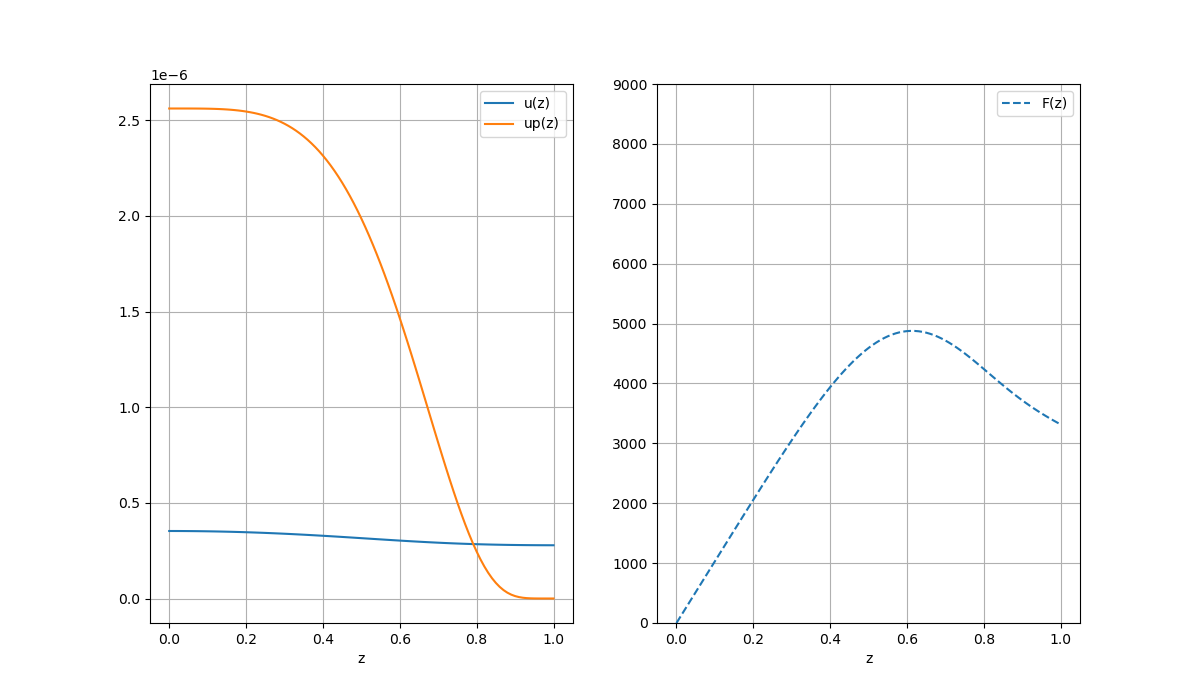
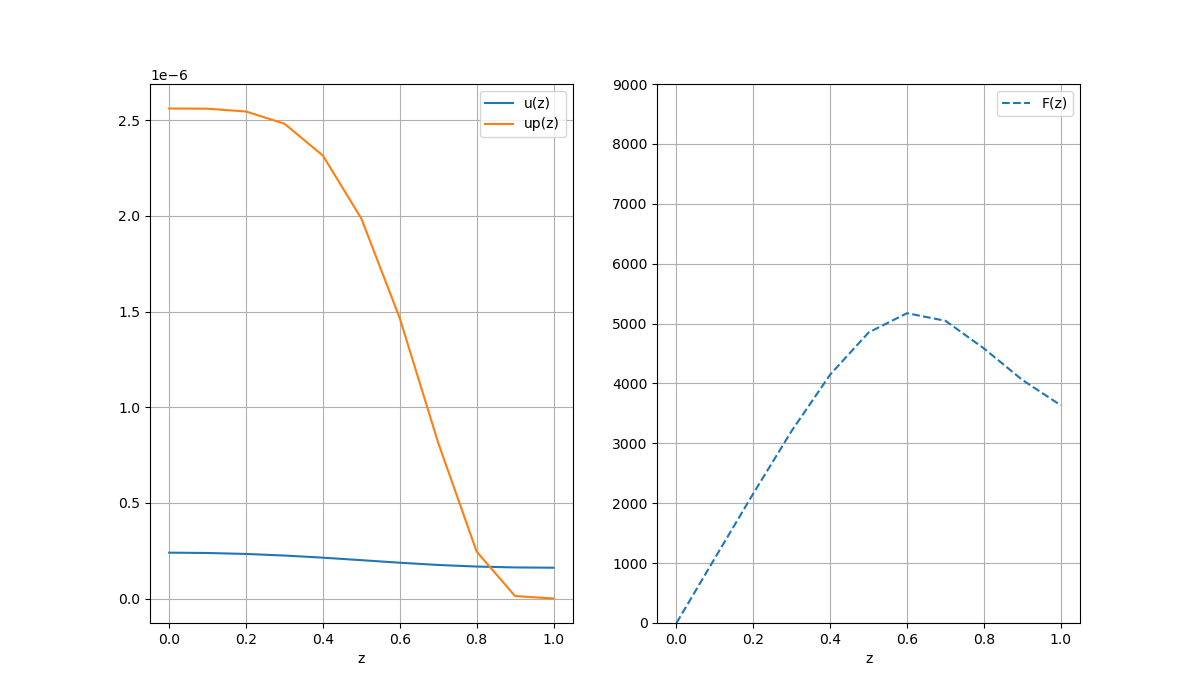
иуащку -1

diff --git a/lab_03/main.py b/lab_03/main.py
@@ -7,7 +7,7 @@ import numpy as np
 
 EPS = 1e-4
 c = 3e10
-k0 = 8e-4  # k0 = 0.01 # k0 = 0.008
+k0 = 8e-3  # k0 = 0.01 # k0 = 0.008
 m = 0.786
 R = 0.35
 Tw = 2000
@@ -21,6 +21,8 @@ def T(z):
 
 
 def up(z):
+    if z > 1:
+        print(z, 3.084e-4 / (exp(4.799e4 / T(z)) - 1))
     return 3.084e-4 / (exp(4.799e4 / T(z)) - 1)
 
 
@@ -38,7 +40,7 @@ class Solver:
     def solve(self, z_min, z_max, h, F0=0, alpha=(m * c / 2), beta=0):
         self.h = h
         self.z_array = list(np.arange(z_min, z_max + EPS, h))
-        self.N = len(self.z_array) - 1
+        self.N = len(self.z_array) - 1# -1
         self.F0 = F0
         self.alpha = alpha
         self.beta = beta
@@ -53,51 +55,59 @@ class Solver:
         self.ksi_array = []
         self.eta_array = []
 
-        self.ksi_array.append(-self.M0 / self.K0)
+        #self.ksi_array.append(-self.M0 / self.K0) - my
+        ## !!!!!!!
+        self.ksi_array.append(self.M0 / self.K0)
         self.eta_array.append(self.P0 / self.K0)
 
-        for i in range(1, self.N):
+        for i in range(1, self.N + 1):
             self.ksi_array.append(self.ksi_n_plus_1(i - 1))
             self.eta_array.append(self.eta_n_plus_1(i - 1))
 
+        print(f'ksi {len(self.ksi_array)}: {self.ksi_array}')
+        print(f'eta {len(self.eta_array)}: {self.eta_array}')
+        print(self.N)
+
 
     def bacward(self):
-        self.y_array = [0] * self.N
+        self.y_array = [0] * (self.N + 1)
         self.y_array[-1] = (self.PN - self.KN * self.eta_array[-1]) / (self.KN * self.ksi_array[-1] + self.MN)
-        for i in range(self.N - 1, 0):
+        for i in range(self.N - 1, 0, -1):
             self.y_array[i] = self.ksi_array[i + 1] * self.y_array[i + 1] + self.eta_array[i + 1]
 
     def count_coeffs(self):
         def count_M0():
             sum1 = self.z_n_plus_half(0) * self.kappa_n_plus_half(0) / (R * R * self.h)
-            sum2 = self.h * self.p_n_plus_half(0) * self.V_n_plus_half(0) / 8
-            sum3 = self.h * self.p_func(self.z_array[0]) / 4
+            sum2 = self.h * self.p_n_plus_half(0) * self.V_n_one_halph() / 8
+            sum3 = self.h * self.p_func(self.z_array[0]) * self.V_n_one_halph() / 4
             return -(sum1 + sum2 + sum3)
 
         def count_K0():
             sum1 = self.z_n_plus_half(0) * self.kappa_n_plus_half(0) / (R * R * self.h)
-            sum2 = self.h * self.p_n_plus_half(0) * self.V_n_plus_half(0) / 8
+            sum2 = self.h * self.p_n_plus_half(0) * self.V_n_one_halph() / 8
             return sum1 - sum2
 
         def count_P0():
             sum1 = self.z_array[0] * self.F0 / R
-            sum2 = self.h * self.V_n_plus_half(0) * (self.f_func(self.z_array[0]) + self.f_n_plus_half(0)) / 4
+            sum2 = self.h * self.V_n_one_halph() * (self.f_func(self.z_array[0]) + self.f_n_plus_half(0)) / 4
             return -(sum1 + sum2)
 
         def count_KN():
             sum1 = self.z_n_minus_half(self.N) * self.kappa_n_minus_half(self.N) / (R * R * self.h)
-            sum2 = self.h * self.p_n_minus_half(self.N) * self.V_n_minus_half(self.N) / 8
+            sum2 = self.h * self.p_n_minus_half(self.N) * self.V_N_minus_half() / 8
             return sum1 - sum2
 
         def count_MN():
             sum1 = self.z_n_minus_half(self.N) * self.kappa_n_minus_half(self.N) / (R * R * self.h)
             sum2 = self.z_array[self.N] * self.alpha / R
-            sum3 = 3 * self.h * self.p_n_minus_half(self.N) * self.V_n_minus_half(self.N) / 8
-            return - (sum1 + sum2 + sum3)
+            sum3 = self.h * self.p_n_minus_half(self.N) * self.V_N_minus_half() / 8
+            sum4 = self.h * self.p_func(self.z_array[self.N]) * self.V_N_minus_half() / 4
+            return -(sum1 + sum2 + sum3 + sum4)
 
         def count_PN():
-            sum1 = 0  # betta = 0
-            sum2 = (self.h * self.V_n_minus_half(self.N) *
+            sum1 = self.z_array[self.N] * self.alpha * self.beta / R
+            # sum1 = 0  # betta = 0
+            sum2 = (self.h * self.V_N_minus_half() *
                     (self.f_func(self.z_array[self.N]) + self.f_n_minus_half(self.N)) / 4)
             return -(sum1 + sum2)
 
@@ -107,11 +117,14 @@ class Solver:
 
         self.MN = count_MN()
         self.KN = count_KN()
+
+        # !self.MN, self.KN = self.KN, self.MN
+
         self.PN = count_PN()
 
     def count_F_array(self):
         self.F_array = []
-        for n in range(self.N - 1):
+        for n in range(self.N):
             F_plus_half = self.kappa_n_plus_half(n) * (self.y_array[n] - self.y_array[n + 1]) / (R * self.h)
             self.F_array.append(F_plus_half)
 
@@ -139,12 +152,6 @@ class Solver:
     def p_n_plus_half(self, n):
         return self.func_n_plus_half(self.p_func, n)
 
-    def V_n_minus_half(self, n):
-        return self.func_n_minus_half(self.Vn, n)
-
-    def V_n_plus_half(self, n):
-        return self.func_n_plus_half(self.Vn, n)
-
     def f_n_minus_half(self, n):
         return self.func_n_minus_half(self.f_func, n)
 
@@ -153,8 +160,11 @@ class Solver:
 
 
 
+    def V_n_one_halph(self):
+        return (self.z_n_plus_half(0) ** 2 - self.z_array[0] ** 2) / 2
 
-
+    def V_N_minus_half(self):
+        return (self.z_array[self.N] ** 2 - self.z_n_minus_half(self.N) ** 2) / 2
 
 
     def Vn(self, n):
@@ -167,10 +177,10 @@ class Solver:
         return (self.z_n_plus_half(n) * self.kappa_n_plus_half(n)) / (R * R * self.h)
 
     def Bn(self, n):
-        return self.An(n) + self.Cn(n) + self.p_func(n) * self.Vn(n)
+        return self.An(n) + self.Cn(n) + self.p_func(self.z_array[n]) * self.Vn(n)
 
     def Dn(self, n):
-        return self.f_func(n) * self.Vn(n)
+        return self.f_func(self.z_array[n]) * self.Vn(n)
 
 
 
@@ -180,13 +190,6 @@ class Solver:
 
     def eta_n_plus_1(self, n):
         return (-self.Dn(n) + self.An(n) * self.eta_array[n]) / (self.Bn(n) - self.An(n) * self.ksi_array[n])
-
-
-
-
-
-
-
 
 
 
@@ -217,18 +220,22 @@ def process_results(z, u, F):
     plt.xlabel('z')
     plt.grid()
     plt.subplot(1, 2, 2)
-    plt.ylim([0, 9000])
+    # plt.ylim([0, 9000])
+    w, e = z_reformatted(z), F[:-1]
+    print(w)
+    print(e)
     plt.plot(z_reformatted(z), F[:-1], '--', label='F(z)')
     plt.legend()
     plt.xlabel('z')
     plt.grid()
+    plt.show()
     plt.savefig(f'graph.png')
     plt.close(fig)
 
 
-
+# !!!!
 def k_func(z):
-    return c / (3 * k(z))
+    return c / (3 * k(z) * R)
 
 def p_func(z):
     return c * k(z)
@@ -241,6 +248,7 @@ def z_reformatted(z):
     new_z = []
     for i in range(len(z) - 1):
         new_z.append((z[i] + z[i + 1]) / 2)
+    return new_z
 
 
 def main():
@@ -293,5 +301,3 @@ def main():
 
 if __name__ == '__main__':
     main()
-
-

diff --git a/lab_02/main.py b/lab_02/main.py
@@ -12,6 +12,7 @@ R = 0.35
 Tw = 2000
 T0 = 1e4
 p_range = [4, 15 + 1]
+p_range = [4, 5]
 
 
 def T(z, p):
@@ -102,7 +103,7 @@ def process_results(solution_steps):
     table['y (u)'] = y
     table['z (F)'] = z
 
-    show_each = 10
+    show_each = 1
 
     pd.set_option('display.max_rows', None)
     pd.set_option('display.max_columns', None)
@@ -116,6 +117,8 @@ def process_results(solution_steps):
     plt.title(f'p={P_SHOW}')
     plt.subplot(1, 2, 1)
     plt.plot(x, y, '-', label='u(z)')
+    print(x)
+    print(y)
     ups = list(map(lambda x0: up(x0, P_SHOW), x))
     plt.plot(x, ups, '-', label='up(z)')
     plt.legend()
@@ -128,11 +131,12 @@ def process_results(solution_steps):
     plt.xlabel('z')
     plt.grid()
     plt.savefig(f'p{P_SHOW}.png')
+    plt.show()
     plt.close(fig)
 
 
 def main():
-    h = 1e-2
+    h = 1e-1
 
     z_min = 0
     z_max = 1
